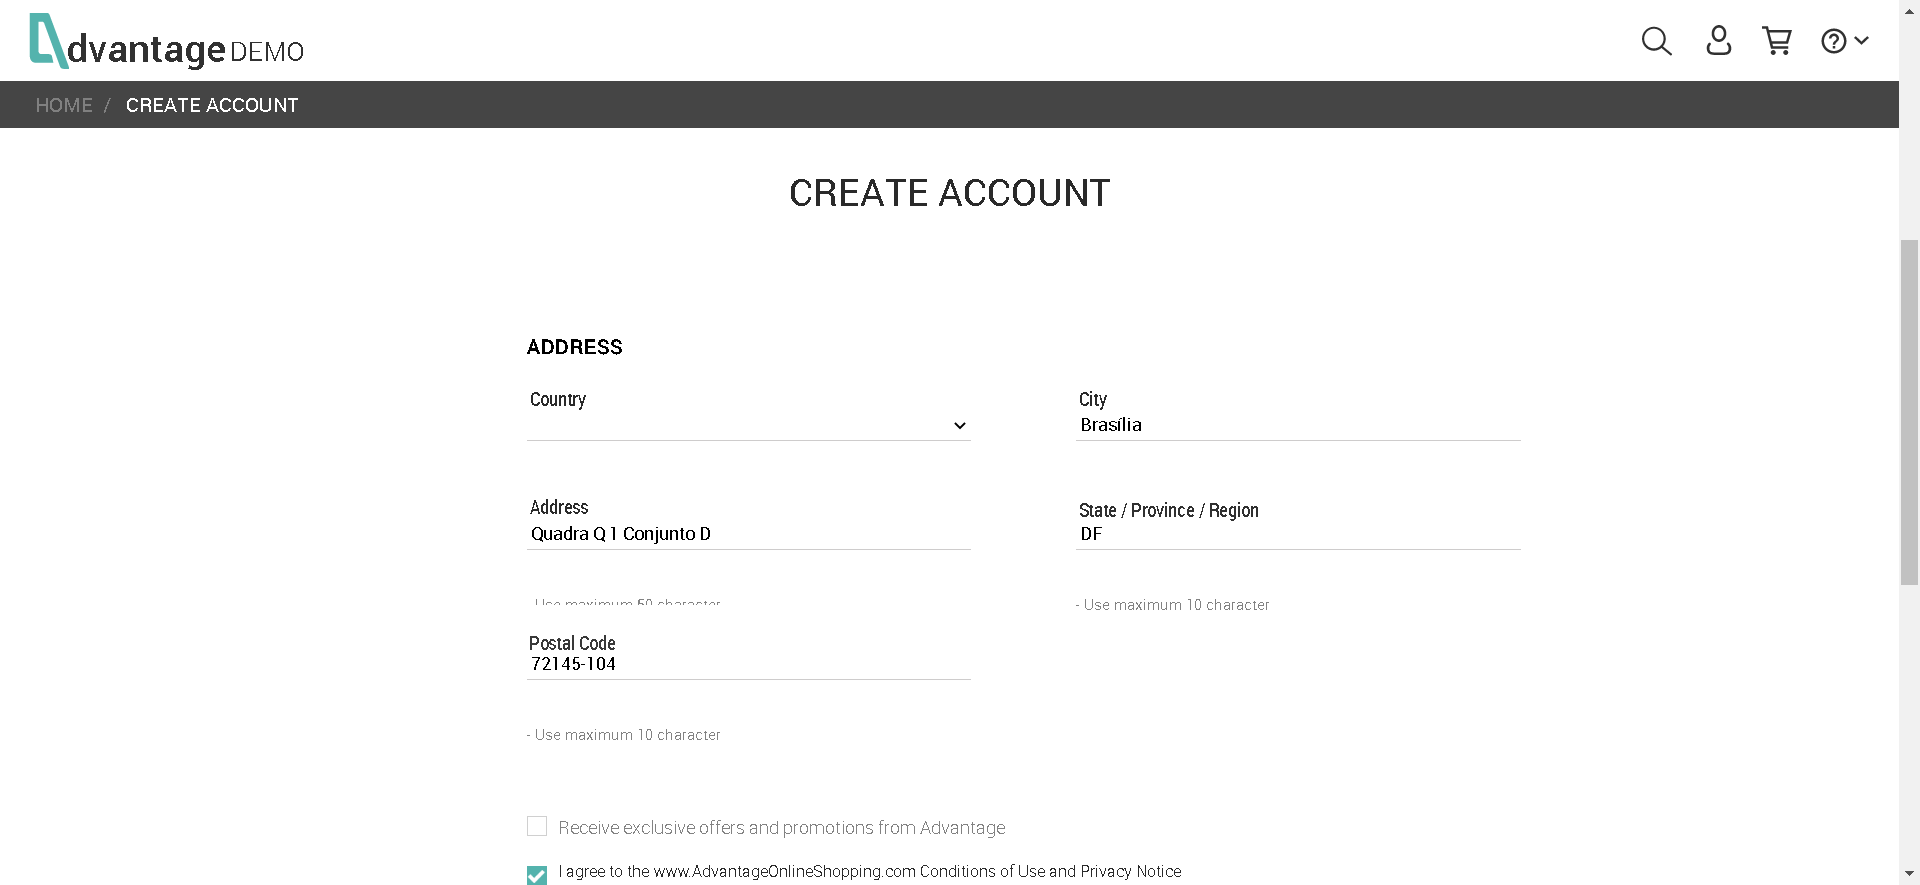
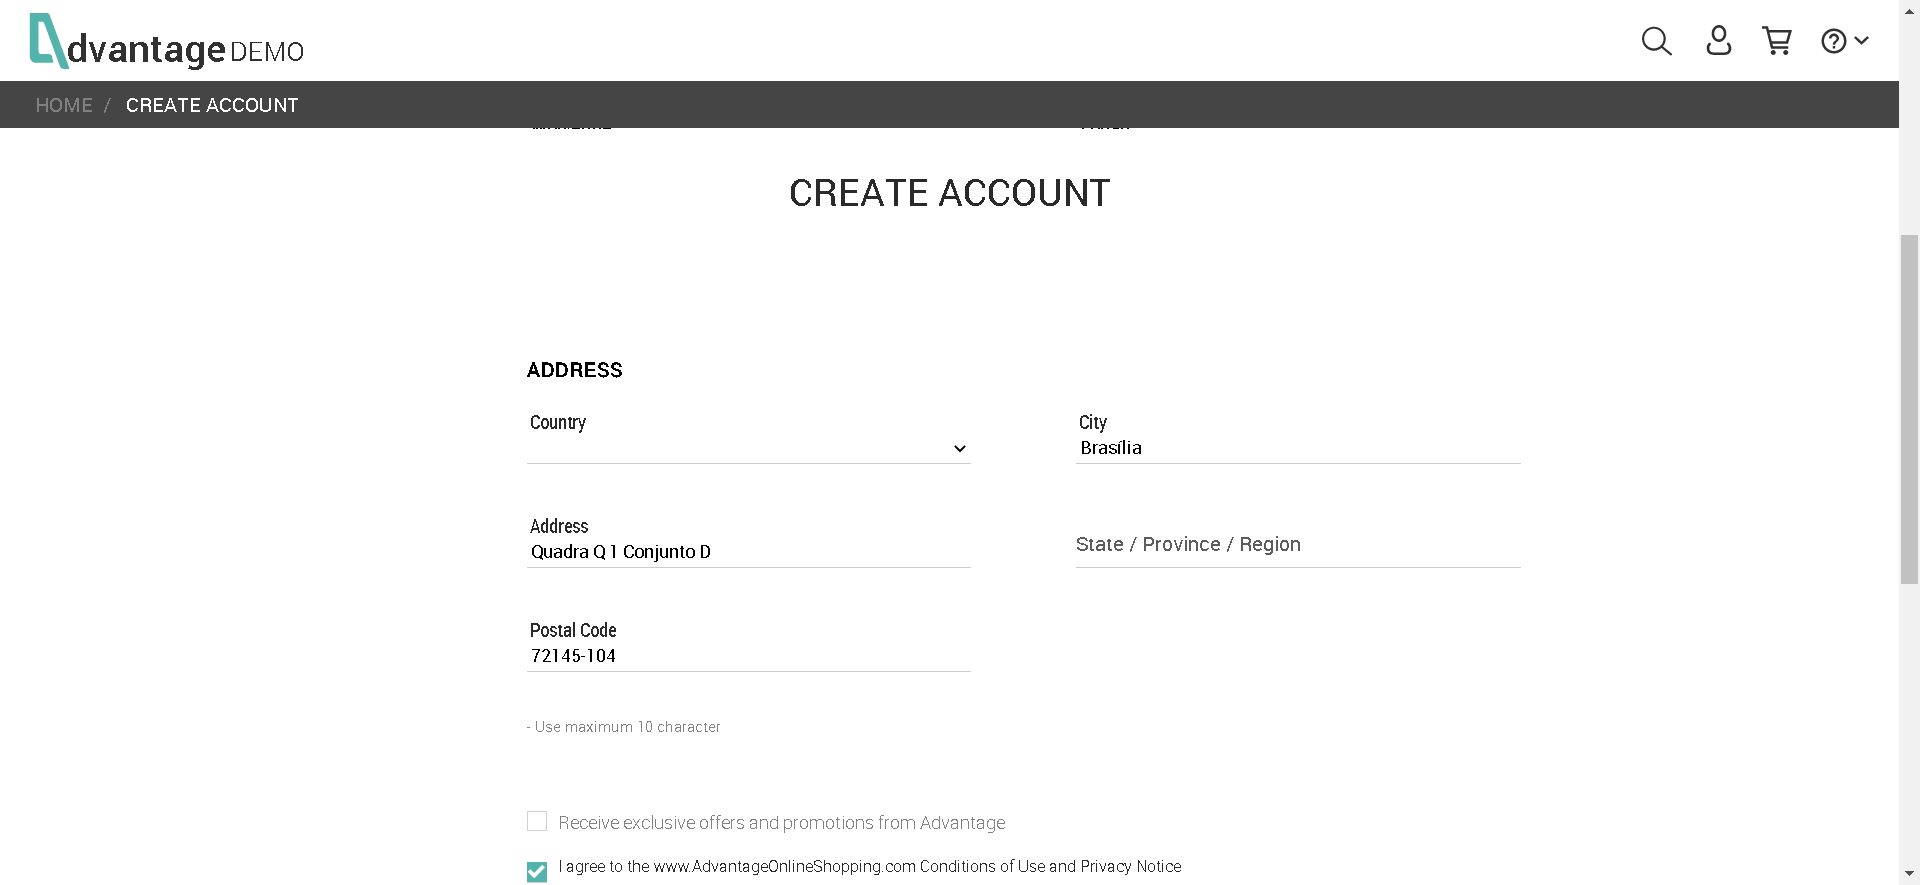
Atualizar

diff --git a/TesteUI/src/test/java/elementos/Elementos.java b/TesteUI/src/test/java/elementos/Elementos.java
@@ -15,7 +15,6 @@ public class Elementos {
 	private By phoneNumber = By.xpath("//*[@id=\"formCover\"]/div[2]/div[2]/sec-view/div/input");
 	private By city = By.xpath("//*[@id=\"formCover\"]/div[3]/div[1]/sec-view[2]/div/input");
 	private By address = By.xpath("//*[@id=\"formCover\"]/div[3]/div[2]/sec-view[1]/div/input");
-	private By stateProvinceRegion = By.xpath("//*[@id=\"formCover\"]/div[3]/div[2]/sec-view[2]/div/input");
 	private By postalCode = By.xpath("//*[@id=\"formCover\"]/div[3]/div[3]/sec-view/div/input");
 	private By checkbox1 = By.xpath("//*[@id=\"formCover\"]/div[4]/input");
 	private By checkbox2 = By.xpath("//*[@id=\"formCover\"]/sec-view/div/input");
@@ -73,10 +72,6 @@ public class Elementos {
 
 	public By getAddress() {
 		return address;
-	}
-
-	public By getStateProvinceRegion() {
-		return stateProvinceRegion;
 	}
 
 	public By getPostalCode() {

diff --git a/TesteUI/src/test/java/steps/Testes.java b/TesteUI/src/test/java/steps/Testes.java
@@ -72,8 +72,6 @@ public class Testes {
 		metodo.escrever(codLink.getCity(), "Brasília");
 		metodo.clicar(codLink.getAddress());
 		metodo.escrever(codLink.getAddress(), "Quadra Q 1 Conjunto D");
-		metodo.clicar(codLink.getStateProvinceRegion());
-		metodo.escrever(codLink.getStateProvinceRegion(), "DF");
 		metodo.clicar(codLink.getPostalCode());
 		metodo.escrever(codLink.getPostalCode(), "72145-104");
 
@@ -226,7 +224,7 @@ public class Testes {
 	@Entao("depois clico no botao de acesso ao usuario")
 	public void depois_clico_no_botao_de_acesso_ao_usuario() throws InterruptedException {
 
-		metodo.tempo(2000);
+		metodo.tempo(3000);
 		metodo.clicar(codLink.getLogin());
 
 	}
